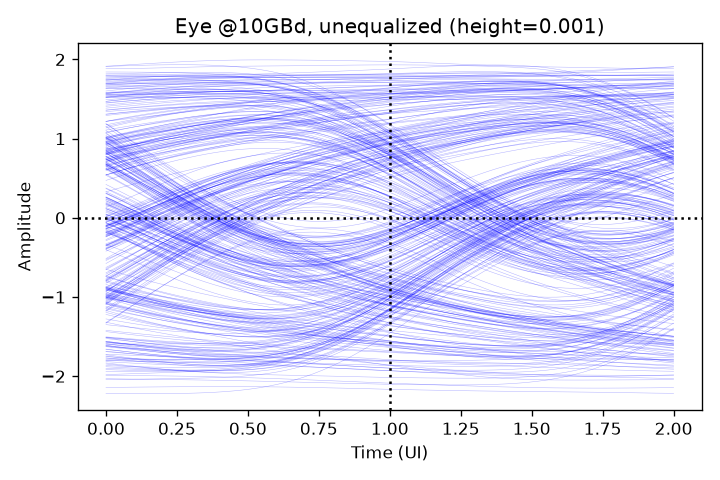
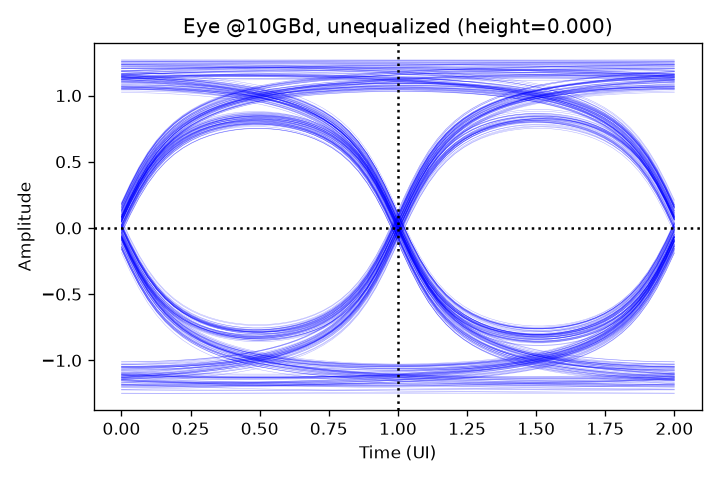
adding day5

diff --git a/model/day5_eye.py b/model/day5_eye.py
@@ -4,7 +4,7 @@ from channel import s4p_to_pulse
 
 baud, sps = 10e9, 32
 CH = "peters_01_0605_B12_thru.s4p" #your -14dB channel; or None
-
+#CH = None
 pulse = s4p_to_pulse(CH, baud, sps)
 
 # -- build RX waveform: convolve random NRZ symbols with the pulse reposne ---
@@ -27,15 +27,25 @@ def eye_matrix(rx, sps, n_ui=2, skip=200):
     return usable.reshape(n, seg)
 eye = eye_matrix(rx, sps)
 
-# -- eye height/width at center phase ---
-center = sps//2                # Samppling instant within the UI
-col = eye[:, center]
-# separate by what the *center* symbol was(need aligned symbols)
-#simpler: measure opening as gap between upper and lower clouds
-top = col[col > 0].min() if (col>0).any() else 0
-bot = col[col < 0].max() if (col<0).any() else 0
-eye_h = top - bot
-print(f"eye height @center = {eye_h:.3f} (top={top:.3f}, bot={bot:.3f})")
+# -- eye height/width at center phase
+
+def eye_height_aligned(rx, syms, pulse, sps, skip=200):
+    delay=np.argmax(pulse)
+    idx = skip + np.arange(len(syms) - skip - 10)
+    samp = rx[delay + idx*sps]
+    s = syms[idx]
+    ones = samp[s > 0]
+    zeros = samp[s < 0]
+    #worst-case opening: lowest "1" minus highest "0"
+    eye_h = ones.min() - zeros.max()
+    #also useful: separation of the *means* (clean, outlier-robust)
+    eye_mean = ones.mean() - zeros.mean()
+    return eye_h, eye_mean, ones, zeros
+
+eye_h, eye_mean, ones, zeros = eye_height_aligned(rx, syms, pulse, sps)
+plt.title(f"Eye @10GBd (worst-case h={eye_h:.3f}, mean-sep={eye_mean:.3f})")
+plt.tight_layout();plt.savefig("day5_eye.png", dpi=120); plt.show()
+
 
 # plot
 t = np.linspace(0, 2, eye.shape[1])
@@ -56,7 +66,7 @@ def q(x):
     return 0.5*erfc(x/np.sqrt(2))
 sigma = 0.05 # RX Noise RMS start here and we will sweep
 ber = q((eye_h/2)/sigma) if eye_h > 0 else 0.5
-print(f"sigma={sigma}: eye_h={eye_h:.3f -> BER ~ {ber:.2e}}")
+print(f"sigma={sigma}: eye_h={eye_h:.3f} -> BER ~ {ber:.2e}")
 
 
 